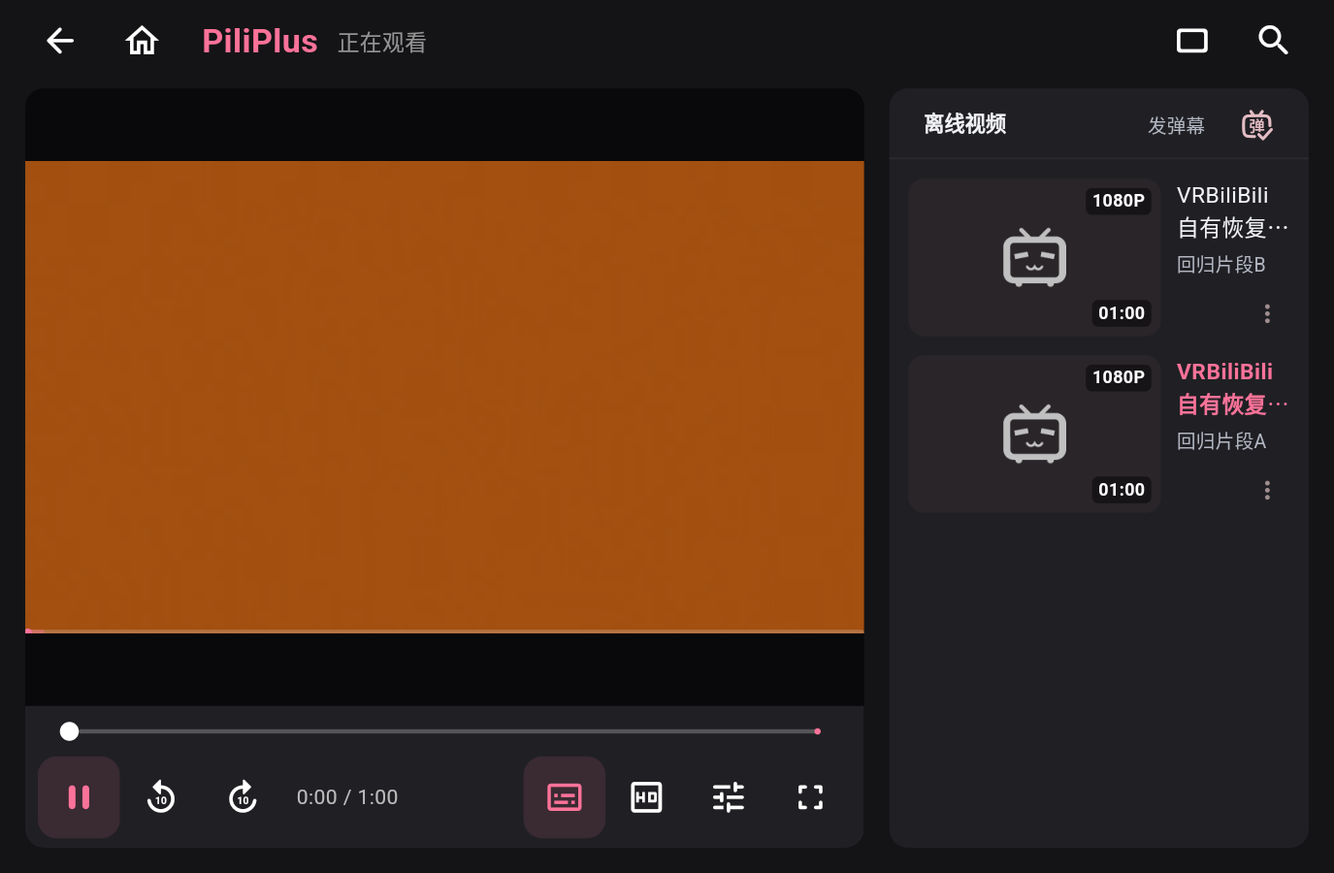
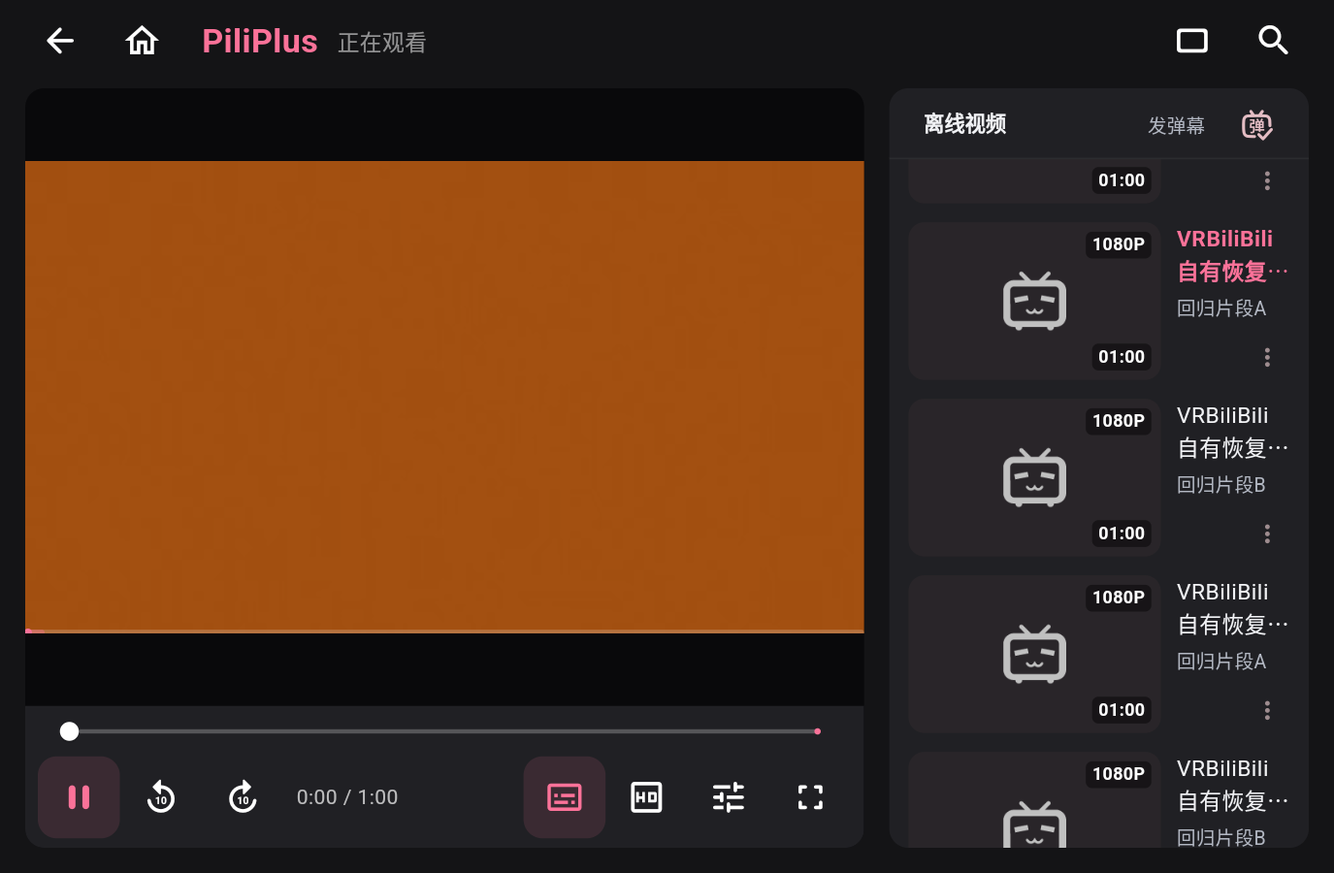
test: verify Quest panel resume and diagnose off-headset sleep

diff --git a/clients/piliplus/android/app/src/androidTest/kotlin/com/example/piliplus/QuestHardwareRecoveryRegression.kt b/clients/piliplus/android/app/src/androidTest/kotlin/com/example/piliplus/QuestHardwareRecoveryRegression.kt
@@ -17,20 +17,45 @@ import java.util.concurrent.atomic.AtomicReference
  * preserves all existing app data, accounts, preferences and progress.
  * Programmatic real callbacks do not establish physical controller comfort. */
 class QuestHardwareRecoveryRegression : Instrumentation() {
-    private val firstCid = 910041000007L
-    private val secondCid = 910041000008L
-    private val steps = mutableListOf<String>()
+    private var firstCid = 910041000007L
+    private var secondCid = 910041000008L
+    private var fixtureGroup = "4"
+    private var mainLifecycle = "not_started"
+    private val steps = java.util.Collections.synchronizedList(mutableListOf<String>())
     private var cinema: CinemaActivity? = null
     private var mainActivity: Activity? = null
+    private var cinemaOpenedUptime = Long.MAX_VALUE
+    private var previousSessionId = ""
+    private var cinemaLifecycle = "not_started"
 
     private var phase = "seed"
     override fun onCreate(arguments: Bundle?) {
         phase = arguments?.getString("phase") ?: "seed"
+        arguments?.getString("firstCid")?.toLongOrNull()?.let { cid ->
+            check(cid in 910041000009L..910041000099L && cid % 2L == 1L) { "New owned CID pair required" }
+            firstCid = cid; secondCid = cid + 1L
+            fixtureGroup = arguments.getString("fixtureGroup") ?: error("Unique fixture group required")
+            check(fixtureGroup.matches(Regex("[0-9]{1,3}")))
+        }
         super.onCreate(arguments); start()
     }
     override fun callActivityOnResume(activity: Activity) {
         super.callActivityOnResume(activity)
-        if (activity is CinemaActivity) cinema = activity
+        if (activity is CinemaActivity) { cinema = activity; cinemaLifecycle = "resumed"; checkpoint("cinema_resumed") }
+        if (activity is MainActivity) { mainLifecycle = "resumed"; checkpoint("main_resumed") }
+    }
+    override fun callActivityOnPause(activity: Activity) {
+        if (activity is MainActivity) { mainLifecycle = "paused"; checkpoint("main_paused") }
+        if (activity is CinemaActivity) { cinema = activity; cinemaLifecycle = "paused"; checkpoint("cinema_paused") }
+        super.callActivityOnPause(activity)
+    }
+    private fun checkpoint(label: String) {
+        val power = targetContext.getSystemService(android.content.Context.POWER_SERVICE) as android.os.PowerManager
+        steps += "checkpoint=" + JSONObject().put("label",label).put("uptimeMs",SystemClock.uptimeMillis())
+            .put("interactive",power.isInteractive).put("mainLifecycle",mainLifecycle)
+            .put("cinemaLifecycle",cinemaLifecycle)
+            .put("mainWindowFocused",mainActivity?.hasWindowFocus() ?: false)
+            .put("cinemaWindowFocused",cinema?.hasWindowFocus() ?: false)
     }
     private fun <T> main(block: () -> T): T {
         val value = AtomicReference<T>(); val error = AtomicReference<Throwable>()
@@ -45,7 +70,7 @@ class QuestHardwareRecoveryRegression : Instrumentation() {
         val page = JSONObject().put("cid", cid).put("page", 1).put("part", "回归片段$suffix")
             .put("has_alias", false).put("tid", 0).put("width", 320).put("height", 180).put("rotate", 0)
         val entry = JSONObject().put("media_type", 1).put("has_dash_audio", false).put("is_completed", true)
-            .put("total_bytes", media.length()).put("downloaded_bytes", media.length()).put("title", "VRBiliBili 自有恢复测试 4 $suffix")
+            .put("total_bytes", media.length()).put("downloaded_bytes", media.length()).put("title", "VRBiliBili 自有恢复测试 $fixtureGroup $suffix")
             .put("type_tag", "80").put("cover", "").put("video_quality", 80).put("prefered_video_quality", 80)
             .put("quality_pithy_description", "原创离线fixture").put("guessed_total_bytes", media.length())
             .put("total_time_milli", 60000).put("danmaku_count", 0).put("time_update_stamp", cid)
@@ -76,8 +101,10 @@ class QuestHardwareRecoveryRegression : Instrumentation() {
         error("Missing UI action: $label")
     }
     private fun click(label: String) {
+        checkpoint("before_UI_$label")
         check(awaitNode(label).performAction(AccessibilityNodeInfo.ACTION_CLICK)) { "Click rejected: $label" }
         SystemClock.sleep(300)
+        checkpoint("after_UI_$label")
     }
     private fun state(method: String = "playerState", probeCid: Long = firstCid): JSONObject {
         val done = CountDownLatch(1); val response = AtomicReference<JSONObject>()
@@ -112,6 +139,18 @@ class QuestHardwareRecoveryRegression : Instrumentation() {
         var last=JSONObject()
         while (SystemClock.uptimeMillis()<end) {
             last=nativeState();if(predicate(last)) return last
+            val power=targetContext.getSystemService(android.content.Context.POWER_SERVICE) as android.os.PowerManager
+            if(cinema!=null && cinemaLifecycle=="paused" && !power.isInteractive) {
+                checkpoint("new_CinemaActivity_sleep_$label")
+                error("HEADSET_SESSION_INACTIVE: the new CinemaActivity was paused while device asleep; CID=${CinemaSession.media?.cid}; stale native JSON is not playback evidence")
+            }
+            if(cinema!=null && !power.isInteractive && last.optLong("cid")==CinemaSession.media?.cid &&
+                last.optString("sessionId").isNotEmpty() && last.optString("sessionId")!=previousSessionId &&
+                last.optLong("sampleUptimeMs")>=cinemaOpenedUptime &&
+                !last.optBoolean("playing") && !last.optBoolean("activityResumed")) {
+                checkpoint("headset_session_inactive_$label")
+                error("HEADSET_SESSION_INACTIVE: real session paused with device asleep; physical wearing/focus required: $last")
+            }
             SystemClock.sleep(150)
         }
         error("Native timeout or headset focus/tracking unavailable: $label: $last")
@@ -127,19 +166,51 @@ class QuestHardwareRecoveryRegression : Instrumentation() {
             steps += "Activity_window_capture_unavailable_$name; screenshot and XR compositor view not claimed"
         }
     }
-    private fun openOffline(suffix: String,cid: Long): JSONObject {
-        click("我的");click("离线缓存");click("VRBiliBili 自有恢复测试 4 $suffix")
+    private fun openOffline(suffix: String,cid: Long,expectedStartMs: Long? = null): JSONObject {
+        click("我的");click("离线缓存");click("VRBiliBili 自有恢复测试 $fixtureGroup $suffix")
+        val loaded=awaitState("true Quest loaded owned fixture $suffix") {
+            it.optLong("cid")==cid && it.optString("dataStatus")=="loaded" &&
+                !it.optBoolean("processing") && it.optInt("width")>0 && it.optLong("durationMs")>0
+        }
+        steps += "actual_Quest_loaded_$suffix=$loaded"
+        val loadedAt=SystemClock.uptimeMillis()
+        if(expectedStartMs!=null) {
+            // playerInit deliberately clears the one-shot defaultST after
+            // passing it to Media.start. Null here is valid; decoder position
+            // in the first 3.5 seconds below proves the actual seek instead.
+            if(!loaded.isNull("restoreStartMs")) check(kotlin.math.abs(loaded.optLong("restoreStartMs")-expectedStartMs)<=400) { "Wrong source restore start: $loaded" }
+            check(kotlin.math.abs(loaded.optLong("cachedPositionMs",-1)-expectedStartMs)<=400) { "Wrong persisted CID progress: $loaded" }
+        }
+        checkpoint("loaded_$suffix")
+        // Loading and playback are separate acceptance facts. A normal real Play
+        // button attempts recovery of an observed paused panel. The system and
+        // lifecycle checkpoints establish whether off-headset sleep overlapped;
+        // this action alone does not identify the Dart pause caller.
+        SystemClock.sleep(500)
+        val initial=state()
+        steps += "autoplay_observed_$suffix=${initial.optBoolean("rawPlaying")}; positionMs=${initial.optLong("positionMs")}; no autoplay pass inferred from loaded state"
+        if(!initial.optBoolean("rawPlaying")) {
+            val play=awaitNode("播放 / 暂停")
+            if(!state().optBoolean("rawPlaying")) {
+                check(play.performAction(AccessibilityNodeInfo.ACTION_CLICK)) { "Real Play button rejected" }
+                steps += "actual_panel_Play_button_$suffix"
+                checkpoint("real_Play_button_$suffix")
+            }
+        }
         val decoded=awaitState("true Quest MediaKit owned fixture $suffix") {
             it.optLong("cid")==cid && it.optString("dataStatus")=="loaded" &&
-                !it.optBoolean("processing") && it.optBoolean("rawPlaying") && it.optInt("width")>0 && it.optLong("positionMs")>400
+                !it.optBoolean("processing") && it.optBoolean("rawPlaying") && it.optInt("width")==320 && it.optInt("height")==180 && it.optLong("positionMs")>400 &&
+                (expectedStartMs==null || (SystemClock.uptimeMillis()-loadedAt<=3500 && it.optLong("positionMs") in (expectedStartMs-400)..(expectedStartMs+3500)))
         }
         steps += "actual_Quest_MediaKit_decode_$suffix=$decoded"
+        if(expectedStartMs!=null) steps += "actual_decoder_restored_start_$suffix; expectedMs=$expectedStartMs; observedMs=${decoded.optLong("positionMs")}; sinceLoadedMs=${SystemClock.uptimeMillis()-loadedAt}"
         return decoded
     }
     private fun enter(cid: Long): JSONObject {
         val oldSession=nativeState().optString("sessionId")
         val opened=SystemClock.uptimeMillis()
-        cinema=null;click("全屏影院")
+        cinemaOpenedUptime=opened;previousSessionId=oldSession
+        cinema=null;cinemaLifecycle="not_started";click("全屏影院")
         val decoded=awaitNative("real CinemaActivity and frames") {
             cinema!=null && CinemaSession.media?.cid==cid && it.optLong("cid")==cid &&
                 it.optString("sessionId").isNotEmpty() && it.optString("sessionId")!=oldSession &&
@@ -161,7 +232,8 @@ class QuestHardwareRecoveryRegression : Instrumentation() {
             }
         } else {
             check(before.optLong("positionMs")>=1000)
-            steps += "native_already_paused_with_unattended_focus_$cid"
+            steps += "native_observed_already_paused_$cid; no specific pause cause inferred"
+            checkpoint("native_already_paused_$cid")
             before
         }
         SystemClock.sleep(650)
@@ -191,6 +263,71 @@ class QuestHardwareRecoveryRegression : Instrumentation() {
         if(!text.isNullOrEmpty())result+=text.take(140)
         for(i in 0 until node.childCount)labels(node.getChild(i),result)
     }
+    private fun pausePanel(): JSONObject {
+        if(state().optBoolean("rawPlaying")) {
+            val button=awaitNode("播放 / 暂停")
+            if(state().optBoolean("rawPlaying")) {
+                check(button.performAction(AccessibilityNodeInfo.ACTION_CLICK))
+                steps += "actual_panel_Pause_button"
+            }
+        }
+        val paused=awaitState("actual panel paused") { !it.optBoolean("rawPlaying") && !it.optBoolean("playing") }
+        SystemClock.sleep(400)
+        val stable=state()
+        check(!stable.optBoolean("rawPlaying") && kotlin.math.abs(stable.optLong("positionMs")-paused.optLong("positionMs"))<=200)
+        return stable
+    }
+    private fun advancePanel(times: Int) {
+        val before=state()
+        repeat(times) { click("前进 10 秒") }
+        val after=awaitState("real panel forward callback") { it.optLong("cid")==before.optLong("cid") && it.optLong("positionMs")>=before.optLong("positionMs")+times*10000-2000 }
+        steps += "actual_panel_forward_${times}_buttons=$after"
+    }
+    private fun panelSeed(seedFile: File) {
+        openOffline("A",firstCid)
+        check(state().isNull("cachedPositionMs")) { "Panel fixture already had progress" }
+        advancePanel(1)
+        val first=pausePanel()
+        check(first.optLong("positionMs")>=400) { "First fixture did not actually progress" }
+        click("返回主页")
+        openOffline("B",secondCid)
+        check(state().isNull("cachedPositionMs")) { "Second panel fixture already had progress" }
+        val before=state()
+        check(kotlin.math.abs(before.optLong("cachedProbePositionMs")-first.optLong("positionMs"))<=400) { "A not persisted on normal route exit" }
+        advancePanel(2)
+        val second=pausePanel()
+        check(kotlin.math.abs(second.optLong("cachedProbePositionMs")-first.optLong("positionMs"))<=400) { "B overwrote A" }
+        check(kotlin.math.abs(second.optLong("positionMs")-first.optLong("positionMs"))>8000)
+        click("返回主页")
+        // The video page owns the debug channel and clears it on disposal.
+        // Observe normal navigation here; the fresh-process phase verifies the
+        // actual saved values, instead of invoking a disposed page's handler.
+        awaitNode("我的")
+        seedFile.writeText(JSONObject().put("firstCid",firstCid).put("secondCid",secondCid)
+            .put("firstMs",first.optLong("positionMs")).put("secondMs",second.optLong("positionMs"))
+            .put("pid",android.os.Process.myPid()).put("coverage","real Quest panel only; immersive handoff not covered").toString())
+        steps += "real_Quest_panel_multi_CID_isolation=$second"
+    }
+    private fun panelRestart(seedFile: File) {
+        val expected=JSONObject(seedFile.readText())
+        check(expected.getInt("pid")!=android.os.Process.myPid()) { "New process required" }
+        check(expected.getLong("firstCid")==firstCid && expected.getLong("secondCid")==secondCid)
+        val firstStart=SystemClock.uptimeMillis();openOffline("A",firstCid,expected.getLong("firstMs"))
+        pausePanel();val first=state(probeCid=secondCid)
+        check(kotlin.math.abs(first.optLong("cachedPositionMs")-expected.getLong("firstMs"))<=400)
+        check(kotlin.math.abs(first.optLong("cachedProbePositionMs")-expected.getLong("secondMs"))<=400)
+        val firstAllowance=((SystemClock.uptimeMillis()-firstStart)*first.optDouble("playbackRate",1.0)).toLong()+1500
+        check(first.optLong("positionMs") in (expected.getLong("firstMs")-400)..(expected.getLong("firstMs")+firstAllowance))
+        steps += "real_Quest_panel_new_process_restored_A=$first"
+        click("返回主页");val secondStart=SystemClock.uptimeMillis();openOffline("B",secondCid,expected.getLong("secondMs"))
+        val second=pausePanel()
+        check(kotlin.math.abs(second.optLong("cachedPositionMs")-expected.getLong("secondMs"))<=400)
+        check(kotlin.math.abs(second.optLong("cachedProbePositionMs")-first.optLong("positionMs"))<=400)
+        val secondAllowance=((SystemClock.uptimeMillis()-secondStart)*second.optDouble("playbackRate",1.0)).toLong()+1500
+        check(second.optLong("positionMs") in (expected.getLong("secondMs")-400)..(expected.getLong("secondMs")+secondAllowance))
+        steps += "real_Quest_panel_new_process_restored_B_and_preserved_A=$second"
+        click("返回主页")
+    }
     override fun onStart() {
         val result=Bundle();var passed=false
         try {
@@ -199,7 +336,7 @@ class QuestHardwareRecoveryRegression : Instrumentation() {
             check(info.versionName=="2.1.5-quest.20261004.4" && info.longVersionCode==2026100404L) { "Wrong installed candidate version" }
             steps += "installed_version=${info.versionName} code=${info.longVersionCode}"
             mainActivity=startActivitySync(Intent(targetContext,MainActivity::class.java).setAction(Intent.ACTION_MAIN).addFlags(Intent.FLAG_ACTIVITY_NEW_TASK))
-            val seedFile=File(targetContext.filesDir,"hardware-recovery-seed.json")
+            val seedFile=File(targetContext.filesDir,"hardware-recovery-seed-$fixtureGroup.json")
             if(phase=="prepare") {
                 val deadline=SystemClock.uptimeMillis()+20000
                 var preflight=JSONObject()
@@ -210,15 +347,19 @@ class QuestHardwareRecoveryRegression : Instrumentation() {
                 check(preflight.optBoolean("ready") && preflight.getJSONArray("occupied").length()==0) { "Test CID keys occupied/unavailable; refusing all fixture/navigation writes: $preflight" }
                 fixture(firstCid,"A");fixture(secondCid,"B")
                 steps += "owned_fixture_preflight_and_new_files_only"
+            } else if(phase=="panelSeed") {
+                panelSeed(seedFile)
+            } else if(phase=="panelRestart") {
+                panelRestart(seedFile)
             } else if(phase=="seed") {
                 val build=openOffline("A",firstCid)
                 check(build.optString("buildVersionName")==info.versionName && build.optLong("buildVersionCode")==info.longVersionCode)
                 check(build.optString("buildBaseCommit")=="cc7c8734bbcf7f0b50a192c58eaf6996e15e7a2d" && build.optString("buildLocalPatch").matches(Regex("[0-9a-f]{64}")))
                 check(state().isNull("cachedPositionMs")) { "Test CID already had progress; refusing overwrite" }
-                capture("hardware-q4-owned-player.png")
+                capture("hardware-q4-r$fixtureGroup-owned-player.png")
                 enter(firstCid);awaitNative("first native advances") { it.optLong("positionMs")>=2000 || (!it.optBoolean("playing") && it.optLong("positionMs")>=1000) }
                 val first=closeNative(firstCid)
-                cinema=null;capture("hardware-q4-owned-return.png")
+                cinema=null;capture("hardware-q4-r$fixtureGroup-owned-return.png")
                 click("返回主页");openOffline("B",secondCid)
                 check(state().isNull("cachedPositionMs")) { "Second test CID already had progress" }
                 val firstBaseline=state().optLong("cachedProbePositionMs")
@@ -255,21 +396,24 @@ class QuestHardwareRecoveryRegression : Instrumentation() {
                 check(second.optLong("positionMs") in (expected.getLong("secondMs")-400)..(expected.getLong("secondMs")+secondAllowance))
                 check(kotlin.math.abs(second.optLong("cachedProbePositionMs")-first.optLong("positionMs"))<=400)
                 steps += "true_Quest_new_process_restored_B_and_preserved_A=$second"
-                capture("hardware-q4-restart-return.png")
+                capture("hardware-q4-r$fixtureGroup-restart-return.png")
             } else error("Unsupported hardware phase $phase")
             passed=true
         } catch(t:Throwable) {
             result.putString("error","${t.javaClass.simpleName}: ${t.message}")
+            checkpoint("failure")
+            // Account screens can be visible on an already signed-in device.
+            // Never export labels outside the known owned test/navigation actions.
             val visible=mutableListOf<String>();labels(uiAutomation.rootInActiveWindow,visible)
-            result.putString("visible_labels",visible.joinToString(" | "))
+            result.putString("owned_actions_visible",visible.filter { it.startsWith("VRBiliBili 自有恢复测试") || it in listOf("播放 / 暂停","全景影院","返回首页","离线缓存") }.joinToString(" | "))
             result.putString("native_state",nativeState().toString())
             android.util.Log.e("QuestHardwareRecoveryRegression","Hardware phase=$phase failed",t)
-            try { capture("hardware-q4-failure.png") } catch(_:Throwable) { }
+            // An arbitrary failure screen may contain account information.
         } finally {
             // Close only a cinema session this runner owns; preserve unrelated apps.
             if(cinema!=null && CinemaSession.media!=null) try { command("finish");SystemClock.sleep(1500) } catch(_:Throwable) { }
             result.putString("phase",phase);result.putString("pid",android.os.Process.myPid().toString())
-            result.putString("passed",passed.toString());result.putString("steps",steps.joinToString("\n"))
+            result.putString("passed",passed.toString());result.putString("steps",synchronized(steps) { steps.joinToString("\n") })
             finish(if(passed) Activity.RESULT_OK else Activity.RESULT_CANCELED,result)
         }
     }

diff --git a/docs/QUEST-ARM64-DELIVERY.md b/docs/QUEST-ARM64-DELIVERY.md
@@ -1,42 +1,42 @@
-# Quest ARM64 本地交付：2026-10-04
+# Quest ARM64 本地交付（2026-10-04）
 
-最终候选 `2.1.5-quest.20261004.4+2026100404` 已以保留数据的方式覆盖安装到真实 Quest 3，设备 APK 与本地候选 SHA256 一致。应用包名为 `io.github.vrbilibili.quest.debug`，本轮保留既有调试签名与应用 UID，不是商店签名的正式发行包。
+Q4 debug候选 `2.1.5-quest.20261004.4+2026100404` 已保数据更新到真实Quest 3，APK仅arm64-v8a、UID10056。它沿用现有调试签名，未完成正式发行验收。
 
[2 lines of base64/hex data omitted]
 
[2 lines of base64/hex data omitted]
 
-## 实测结果
+## 实际验收
 
 | 项目 | 结果 |
 | --- | --- |
-| 签名一致、保留数据覆盖安装、设备 APK 哈希一致 | 通过 |
-| 真实 Quest MediaKit 320×180 H.264/AAC 解码 | 未通过／未完成，不能推定通过 |
-| 正确 CID、新会话的 CinemaActivity 场景／首帧／音视频计数 | 未通过／未完成，不能推定通过 |
-| 真实影院回调退出，Flutter 暂停并等待进度保存 | 未通过／未完成，不能推定通过 |
-| 两个独立 CID 的进度不互相覆盖 | 未通过／未完成，不能推定通过 |
-| 新应用进程保留数据并恢复两个 CID | 未通过／未完成，不能推定通过 |
+| 兼容签名、保数据更新、设备APK哈希 | 通过 |
+| 真实Quest MediaKit离线解码 | 通过；320×180 H.264/AAC、60.010秒，实际进度及rawPlaying=true |
+| 面板真实暂停/前进按钮和双CID隔离 | 通过；A保存10750ms，B21166ms，B不覆盖A |
+| 面板新进程续播 | 通过；PID9536→10360，未重建种子，首次真实解码A11083/B21750ms，各在loaded后507ms观测 |
+| 正确CID、新会话的真实CinemaActivity持续解码 | 未通过；新影院在系统休眠时暂停，无本次新会话帧证明 |
+| 真实影院退出、返回暂停Flutter并持久化 | 未完成 |
+| 影院返回后的重启续播、完整端到端 | 未完成；面板结果不能替代此路径 |
+| 佩戴、双眼画面、手柄射线、跟踪对齐、舒适度 | 需要用户实机评审 |
 
-Q4 `seed` 的最终观察：正确 CID 的媒体处于 `loaded`、`processing=false`，识别为 320×180／60.010 秒，但 `playing=false`、`rawPlaying=false`、位置 0，未满足自动播放断言；`restart` 因前置阶段未通过而未执行。睡眠／窗口／焦点条件造成的环境阻碍与产品回归原因尚不能完全区分，不把该观察夸大为已确定的播放器代码缺陷。
+原Q4首次seed停在loaded但0秒、不播放。补读同阶段系统日志证实：VrPowerManagerService在HEADSET_UNMOUNTED后进入睡眠，系统以sleep原因暂停MainActivity，VR runtime进入STANDBY。不能凭该结果推定具体Dart pause调用者，也未将其作为确定的产品autoplay缺陷改写播放策略。
 
-独立历史证据：Q1 在真实 Quest 上 MediaKit 解码 320×180，时长 60.010 秒、位置 416ms、`rawPlaying=true`；其正确 CID、新会话的真实影院记录为场景／首帧成立、视频 13 帧、音频 66 缓冲、`playing=true`。之后停在 5091ms，54 视频帧／227 音频缓冲，`trackingAligned=false`。这些是短时真实证据，不能替代最终 Q4 的完整验收。产品 Dart 源码逐字节相同；后续影院源码仅增加调试证据字段，未修改其焦点暂停逻辑。
+拆开加载/播放后，R5的正确CID910041000009实际解码到500ms；点击“全屏影院”时interactive从true转false，新CinemaActivity和MainActivity均被系统sleep暂停。旧Q1 CID1/session状态被正确拒绝，未冒充新会话通过。历史Q1曾短时得到新会话13视频帧/66音频缓冲，随后5091ms暂停、trackingAligned=false；该历史不代表Q4完整验收。
 
-影院断言同时核对 CID、新会话 ID、进入后的单调采样时间、场景、首帧及视频／音频计数，拒绝残留状态。暂停／退出／前进 10 秒通过真实原生 HUD 的回调执行，不注入伪播放状态。若设备自然掉焦已经暂停，会单独记录，不能当作暂停按钮操作已通过。普通 UI 动作必要时使用正常唤醒键；影院播放轮询不持续唤醒、不改追踪或传感器行为。
+本轮测试修复：真实Play按钮恢复；生命周期/电源/uptime记录；线程安全日志；新CID和目录占用预检；正确B缓存探测；退出后不读已销毁的页面通道；不将已消费并清空的defaultST判为失败。A/B通过真实按钮推进到明显不同的约10/20秒，续播要求首次解码在loaded后3.5秒内接近保存位置，防止从零播放误通过。restart保留现有素材和进度，不重新写种子。
 
-`prepare`／`seed`／`restart` 分进程执行，只有 `prepare` 写入全新的自有测试路径，并先检查两个 Hive 键不存在。后续阶段保留数据、不重新播种。每轮使用新的 CID／标题／截图文件名，既有账号、缓存、旧测试数据不清空、不覆盖。原始 60 秒素材由本项目生成，仅在测试 APK 内。
[1 lines of base64/hex data omitted]
 
-本轮没有证明长期佩戴时的稳定播放、头显双眼画面、追踪对齐、手柄射线、舒适度、整机重启／断电恢复、登录或在线 DASH 画质切换。应用进程重启不等于整机重启。Android Activity 窗口截图不等于 XR 合成器图像；截图不可用独立记录，不用模拟器替代头显结果。
+## 构建、数据与下一步
 
-## 修复与回归
+17项Dart交接回归此前通过；产品Dart未变，既有分析0错误/0警告/2个info。本轮离线AndroidTest构建通过、真机面板上述阶段通过。真实Chrome原型已完成的验证覆盖未变化；DOM、模拟器与真实头显结果分别记录。
 
-已合入九文件恢复补丁：安全读取坏类型／负值进度；保存时固定 CID 并返回 Future；影院退出等待真实写入后恢复暂停 Flutter；进入时拒绝未加载／处理中／CID 不一致；跳过坏下载元数据、非法路径标签及缺失／空媒体文件；下载卡片进度限制在合理范围。新增真机测试、明确 ARM64 依赖打包过滤、构建身份和 SDK 原始通知。
+工具链、pubspec.lock、Android ABI与 [构建环境](DEVELOPMENT-ENVIRONMENT.md) 保持固定。测试由 `tools/quest-preview-regression.gradle` 选择 `QuestHardwareRecoveryRegression`，离线单工作线程构建。密钥、账户资料、签名机器私有路径不进入仓库。APK内SDK原始LICENSE/notices已逐字节核对；这不构成重新授权。
 
-既有纯 Dart 交接回归 17 项通过；九个改动 Dart 文件分析 0 错误、0 警告、2 条 info。后续候选的产品 Dart 文件逐字节保持一致。五个模拟器真实应用进程恢复阶段此前通过，包括旧类型、负值、截断 Hive 尾帧和坏下载目录，参见 [恢复验证](ISOLATED-RECOVERY-VALIDATION.md)。历史 HTML 的四个真实 Chrome 测试输入逐字节未改变，复用其既有浏览器结果；没有把 DOM 或 mock 测试称为真实头显验收。
+普通UI动作开始时可发一次正常唤醒键；不在影院轮询中持续唤醒、不修改接近传感器/追踪设置、不模拟佩戴。阶段间可等待系统自然睡眠再开始下一项正常UI动作，不设置保活。应用数据不清空、账户不登录/变更、网络/权限/配对不调整。自有测试片段仍留在缓存列表，便于交接；不删除用户内容。
 
-## 复验与发行边界
+继续影院验收的最小条件：用户戴上Quest，正常处理系统追踪提示并保持佩戴约2–3分钟，保留USB连接。确认Q4标识后使用新自有pair，例如预检未占用的910041000015/016、fixtureGroup8，依次prepare→seed→restart；每阶段新应用进程但保留数据，先通过真实影院退出再重启。已有CID1–14不重新seed。自动回调不能代替佩戴者对双眼画面/控制器/舒适度的评价。
 
-固定版本及 `pubspec.lock`，使用已安装、来源明确的 Flutter/JDK/Android SDK，先 `flutter pub get --offline --enforce-lockfile`。直接 Gradle 构建需 `-Ptarget-platform=android-arm64` 和 `-I tools/quest-arm64.gradle`；测试 APK 通过 `tools/quest-preview-regression.gradle` 选择 `QuestHardwareRecoveryRegression`。编译时传入本页身份记录中的 `pili.name/code/hash/time`、`vr.patch/label`；本机密钥配置留在私有路径，不在仓库中。
+README的Quest截图已更新为Q4 R5真实MainActivity窗口原图；不是XR合成器双眼图像。另两张模拟器图片保留明确标注。
 
-覆盖安装前核对 `apksigner verify --print-certs`、包名、ABI、版本和现有签名。只在既有已授权连接上使用 `adb install -r`；不卸载／清空数据，不改配对、网络、权限或系统追踪。人工续验需佩戴头显、处理系统追踪提示后确认当前版本，使用新的专用 CID 再运行三个阶段，避免重用已保存进度的测试 CID；先正常退出影院，再仅重启此应用进程。
-
-本次没有创建 tag 或正式 GitHub Release，也没有上传 SDK 组合 APK。许可证组合缺少肯定放行依据，详见 [APK 分发核查](BINARY-DISTRIBUTION-REVIEW.md)。SDK 原始 `LICENSE`／`notices.html` 已打包并逐字节核验；它们不解决 GPL 组合许可，原生播放器匹配源码／补丁／构建脚本和修改／重链接义务仍需落实。去除 SDK 会失去沉浸影院，属于产品取舍，未自行实施。
+未创建正式tag/Release或公开上传APK；[公开分发风险](BINARY-DISTRIBUTION-REVIEW.md)仍待肯定依据及原生依赖对应源码/构建/relink义务。独立核验的结论是未解决风险，不能推广为所有GPL/Meta组合一律不允许。没有开始OpenXR架构替换，也未自行决定去掉影院。

diff --git a/README.md b/README.md
@@ -2,7 +2,7 @@
 
 面向 Meta Quest 3 的实验性 Bilibili 客户端，基于 PiliPlus。选片、账号和普通播放使用 PiliPlus；观看页提供大尺寸播放控件，以及固定屏幕的全屏影院入口。影院支持深色／浅色环境、纯画面模式和屏幕大小调整。
 
-当前源码已合入本地缓存与影院返回的进度恢复修复。2026-10-04 ARM64 本地测试候选为 `2.1.5-quest.20261004.4+2026100404`，关于页显示基础提交、补丁 SHA256 和构建标签。**含 Meta Spatial SDK 的公开 APK Release 仍待组合许可依据确认；目前没有可下载的正式 APK，不以源码压缩包代替 APK。** 详见 [二进制分发核查](docs/BINARY-DISTRIBUTION-REVIEW.md) 与 [本轮交付验收](docs/QUEST-ARM64-DELIVERY.md)。
+当前源码已合入本地缓存与影院返回的进度恢复修复。真实 Quest 的面板双 CID 隔离及新进程续播已通过；沉浸影院进出仍因未佩戴时系统睡眠阻断，需要用户佩戴后继续验收。2026-10-04 ARM64 本地测试候选为 `2.1.5-quest.20261004.4+2026100404`，关于页显示基础提交、补丁 SHA256 和构建标签。**含 Meta Spatial SDK 的公开 APK Release 仍待组合许可依据确认；目前没有可下载的正式 APK，不以源码压缩包代替 APK。** 详见 [二进制分发核查](docs/BINARY-DISTRIBUTION-REVIEW.md) 与 [本轮交付验收](docs/QUEST-ARM64-DELIVERY.md)。
 
 ## 应用截图
 
@@ -10,7 +10,7 @@
 
 ![Quest 3 实际应用窗口：原创离线片段播放](docs/images/app-offline-quest3.png)
 
-Quest 3 的实际 MainActivity 窗口，来自本轮 Q1 候选。它证明普通播放器界面与真实素材解码，不是 XR 合成器的双眼画面。素材实际为 320×180；1080P 为测试目录元数据。
+Quest 3 的实际 MainActivity 窗口，来自 Q4 候选的 R5 真机播放验证。它证明普通播放器界面与真实素材解码，不是 XR 合成器的双眼画面。素材实际为 320×180；1080P 为测试目录元数据。
 
 ![离线片段播放及影院返回后的暂停状态：模拟器真实应用截图](docs/images/app-offline-recovery-simulator.png)
 
